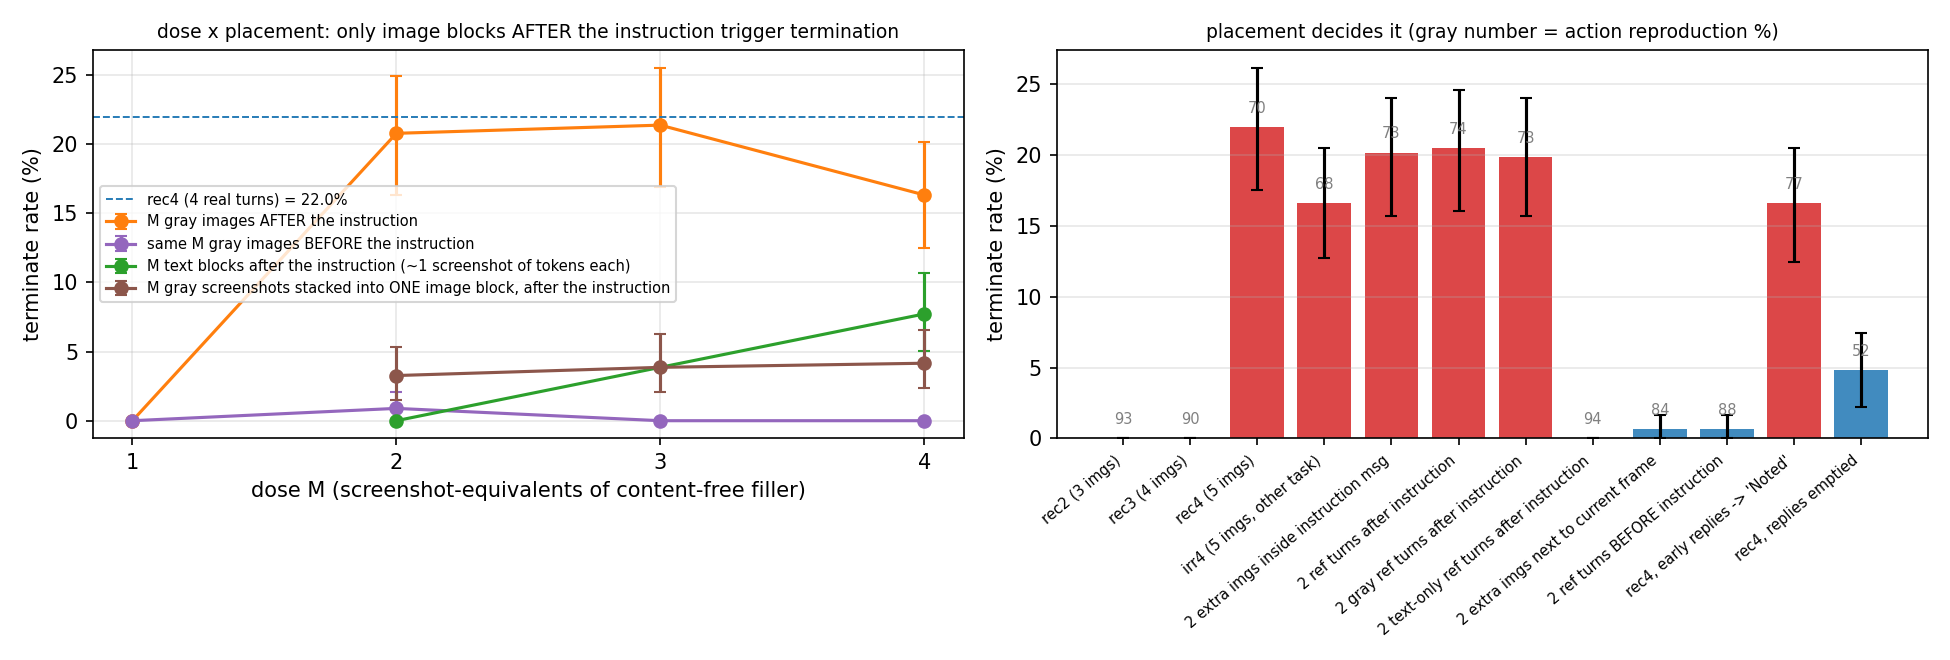
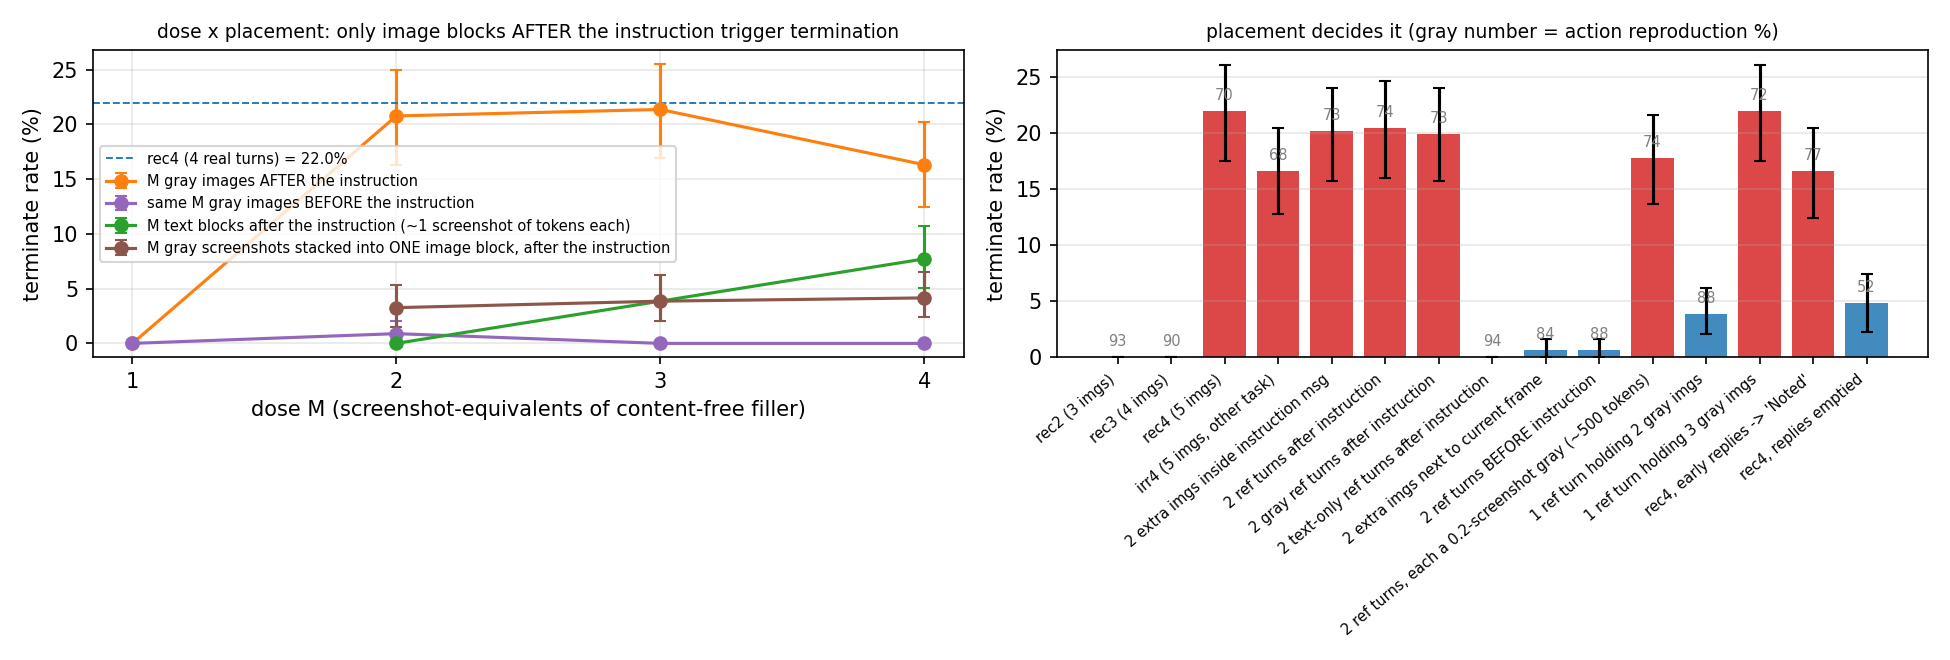
harm: 图 2 载入 dose5–7 数据,补块定义条形

diff --git a/rl/harm/code/plot_trigger.py b/rl/harm/code/plot_trigger.py
@@ -3,7 +3,7 @@
 import json, os, re, random, statistics as st
 import matplotlib; matplotlib.use("Agg"); import matplotlib.pyplot as plt
 H = "/data01/jaxan/harm"
-files = ["harm_vs_n_base_deploy.jsonl", "format_base.jsonl", "format2_base.jsonl", "term_interv_base.jsonl", "goal_interv_base.jsonl", "reply_pattern_base.jsonl", "reply_pattern2_base.jsonl", "dose_base.jsonl", "dose2_base.jsonl", "dose3_base.jsonl", "dose4_base.jsonl"]
+files = ["harm_vs_n_base_deploy.jsonl", "format_base.jsonl", "format2_base.jsonl", "term_interv_base.jsonl", "goal_interv_base.jsonl", "reply_pattern_base.jsonl", "reply_pattern2_base.jsonl", "dose_base.jsonl", "dose2_base.jsonl", "dose3_base.jsonl", "dose4_base.jsonl", "dose5_base.jsonl", "dose6_base.jsonl", "dose7_base.jsonl"]
 recs = {}
 for f in files:
     p = f"{H}/{f}"
